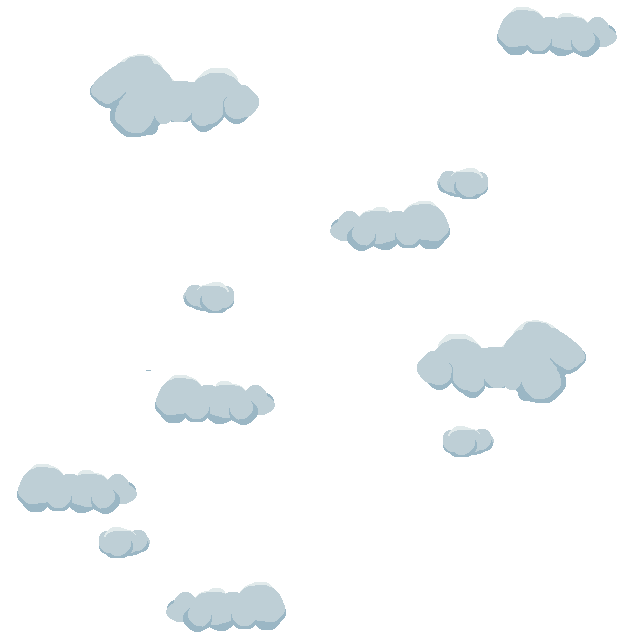
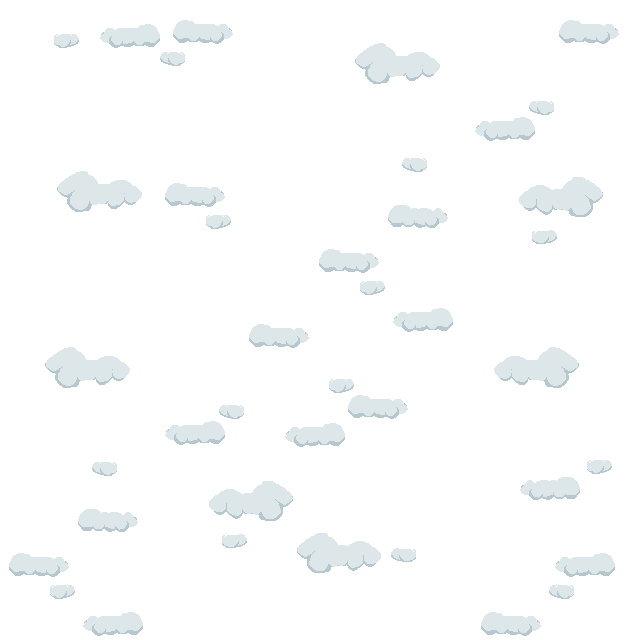
clooouds

diff --git a/AstroMiner/Definitions/ScrollingBackgrounds.cs b/AstroMiner/Definitions/ScrollingBackgrounds.cs
@@ -2,7 +2,7 @@ using System.Collections.Generic;
 
 namespace AstroMiner.Definitions;
 
-public record ScrollingBackgroundConfig
+public record ScrollingBackgroundLayer
 {
     // Land configuration
     public int LandTextureWidthPx { get; init; } = 1600;
@@ -14,31 +14,68 @@ public record ScrollingBackgroundConfig
     public string LandTextureName { get; init; } = Tx.Backgrounds.Oizus;
 }
 
+public record ScrollingBackgroundConfig
+{
+    public List<ScrollingBackgroundLayer> Layers { get; init; } = new();
+}
+
 public static class ScrollingBackgrounds
 {
     private static readonly ScrollingBackgroundConfig OizusAsteroid = new()
     {
-        LandTextureWidthPx = 640,
-        LandTextureHeightPx = 640,
-        LandTextureScale = 1f,
-        LandSpeed = 5f,
-        LandParallaxFactorX = 0.4f,
-        LandParallaxFactorY = 0.2f,
-        LandTextureName = Tx.Backgrounds.Oizus,
+        Layers = new List<ScrollingBackgroundLayer>
+        {
+            new()
+            {
+                LandTextureWidthPx = 640,
+                LandTextureHeightPx = 640,
+                LandTextureScale = 1f,
+                LandSpeed = 5f,
+                LandParallaxFactorX = 0.4f,
+                LandParallaxFactorY = 0.2f,
+                LandTextureName = Tx.Backgrounds.Oizus,
+            },
+            new()
+            {
+                LandTextureWidthPx = 640,
+                LandTextureHeightPx = 640,
+                LandTextureScale = 1f,
+                LandSpeed = 5.5f,
+                LandParallaxFactorX = 0.45f,
+                LandParallaxFactorY = 0.25f,
+                LandTextureName = Tx.Backgrounds.OizusClouds1,
+            },
+            new()
+            {
+                LandTextureWidthPx = 640,
+                LandTextureHeightPx = 640,
+                LandTextureScale = 1f,
+                LandSpeed = 10f,
+                LandParallaxFactorX = 0.6f,
+                LandParallaxFactorY = 0.5f,
+                LandTextureName = Tx.Backgrounds.OizusClouds2,
+            }
+        }
     };
 
     private static readonly ScrollingBackgroundConfig OizusOrbit = new()
     {
-        LandTextureWidthPx = 640,
-        LandTextureHeightPx = 640,
-        LandTextureScale = 1f,
-        LandSpeed = 5f,
-        LandParallaxFactorX = 0.4f,
-        LandParallaxFactorY = 0.2f,
-        LandTextureName = Tx.Backgrounds.Oizus,
+        Layers = new List<ScrollingBackgroundLayer>
+        {
+            new()
+            {
+                LandTextureWidthPx = 640,
+                LandTextureHeightPx = 640,
+                LandTextureScale = 1f,
+                LandSpeed = 5f,
+                LandParallaxFactorX = 0.4f,
+                LandParallaxFactorY = 0.2f,
+                LandTextureName = Tx.Backgrounds.Oizus,
+            }
+        }
     };
 
-    public static ScrollingBackgroundConfig? GetScrollingBackgroundConfig(World activeWorld)
+    public static ScrollingBackgroundConfig GetScrollingBackgroundConfig(World activeWorld)
     {
         return activeWorld switch
         {

diff --git a/AstroMiner/Renderers/ScrollingBackgroundRenderer.cs b/AstroMiner/Renderers/ScrollingBackgroundRenderer.cs
@@ -11,15 +11,15 @@ public class ScrollingBackgroundRenderer(RendererShared shared)
 {
 
 
-    private (float, float, float, float) GetGridRectForVisibleLand(ScrollingBackgroundConfig config)
+    private (float, float, float, float) GetGridRectForVisibleLand(ScrollingBackgroundLayer layer)
     {
         var cameraPos = shared.ViewHelpers.GetCameraPos();
 
 
-        var offsetXForParallax = cameraPos.X * config.LandParallaxFactorX - cameraPos.X;
-        var offsetYForParallax = cameraPos.Y * config.LandParallaxFactorY - cameraPos.Y;
+        var offsetXForParallax = cameraPos.X * layer.LandParallaxFactorX - cameraPos.X;
+        var offsetYForParallax = cameraPos.Y * layer.LandParallaxFactorY - cameraPos.Y;
 
-        var movedGridDistance = (float)(shared.GameStateManager.GameTime.TotalGameTime.TotalMilliseconds / 1000f * config.LandSpeed);
+        var movedGridDistance = (float)(shared.GameStateManager.GameTime.TotalGameTime.TotalMilliseconds / 1000f * layer.LandSpeed);
 
         var (startX, startY, viewportGridWidth, viewportGridHeight) = shared.ViewHelpers.GetViewportGridRect();
         return (startX + offsetXForParallax + movedGridDistance, startY + offsetYForParallax, viewportGridWidth, viewportGridHeight);
@@ -34,16 +34,19 @@ public class ScrollingBackgroundRenderer(RendererShared shared)
 
     public void RenderBackground(SpriteBatch spriteBatch, ScrollingBackgroundConfig config)
     {
-        // Render land background
-        RenderLandBackground(spriteBatch, config);
+        // Render each layer in order
+        foreach (var layer in config.Layers)
+        {
+            RenderLandBackground(spriteBatch, layer);
+        }
     }
 
-    private void RenderLandBackground(SpriteBatch spriteBatch, ScrollingBackgroundConfig config)
+    private void RenderLandBackground(SpriteBatch spriteBatch, ScrollingBackgroundLayer layer)
     {
-        var LandTextureGridWidth = config.LandTextureWidthPx / GameConfig.CellTextureSizePx;
-        var LandTextureGridHeight = config.LandTextureHeightPx / GameConfig.CellTextureSizePx;
+        var LandTextureGridWidth = layer.LandTextureWidthPx / GameConfig.CellTextureSizePx;
+        var LandTextureGridHeight = layer.LandTextureHeightPx / GameConfig.CellTextureSizePx;
 
-        var (gridRectX, gridY, gridRectWidth, gridRectHeight) = GetGridRectForVisibleLand(config);
+        var (gridRectX, gridY, gridRectWidth, gridRectHeight) = GetGridRectForVisibleLand(layer);
 
         // Calculate pixels per grid unit based on viewport size
         var pixelsPerGridUnit = GetPixelsPerGridUnit(gridRectWidth);
@@ -79,7 +82,7 @@ public class ScrollingBackgroundRenderer(RendererShared shared)
 
                 // Draw the tile
                 spriteBatch.Draw(
-                    shared.Textures[config.LandTextureName],
+                    shared.Textures[layer.LandTextureName],
                     tileRect,
                     Color.White
                 );

diff --git a/AstroMiner/Definitions/Tx.cs b/AstroMiner/Definitions/Tx.cs
@@ -29,6 +29,8 @@ namespace AstroMiner.Definitions
         {
             public const string Oizus = "Backgrounds/Oizus";
             public const string OizusClouds = "Backgrounds/OizusClouds";
+            public const string OizusClouds1 = "Backgrounds/OizusClouds1";
+            public const string OizusClouds2 = "Backgrounds/OizusClouds2";
         }
         public static class Miner
         {
@@ -61,6 +63,8 @@ namespace AstroMiner.Definitions
             "White",
             "Backgrounds/Oizus",
             "Backgrounds/OizusClouds",
+            "Backgrounds/OizusClouds1",
+            "Backgrounds/OizusClouds2",
             "Miner/MinerNoTracks",
             "Miner/Tracks0",
             "Miner/Tracks1",
